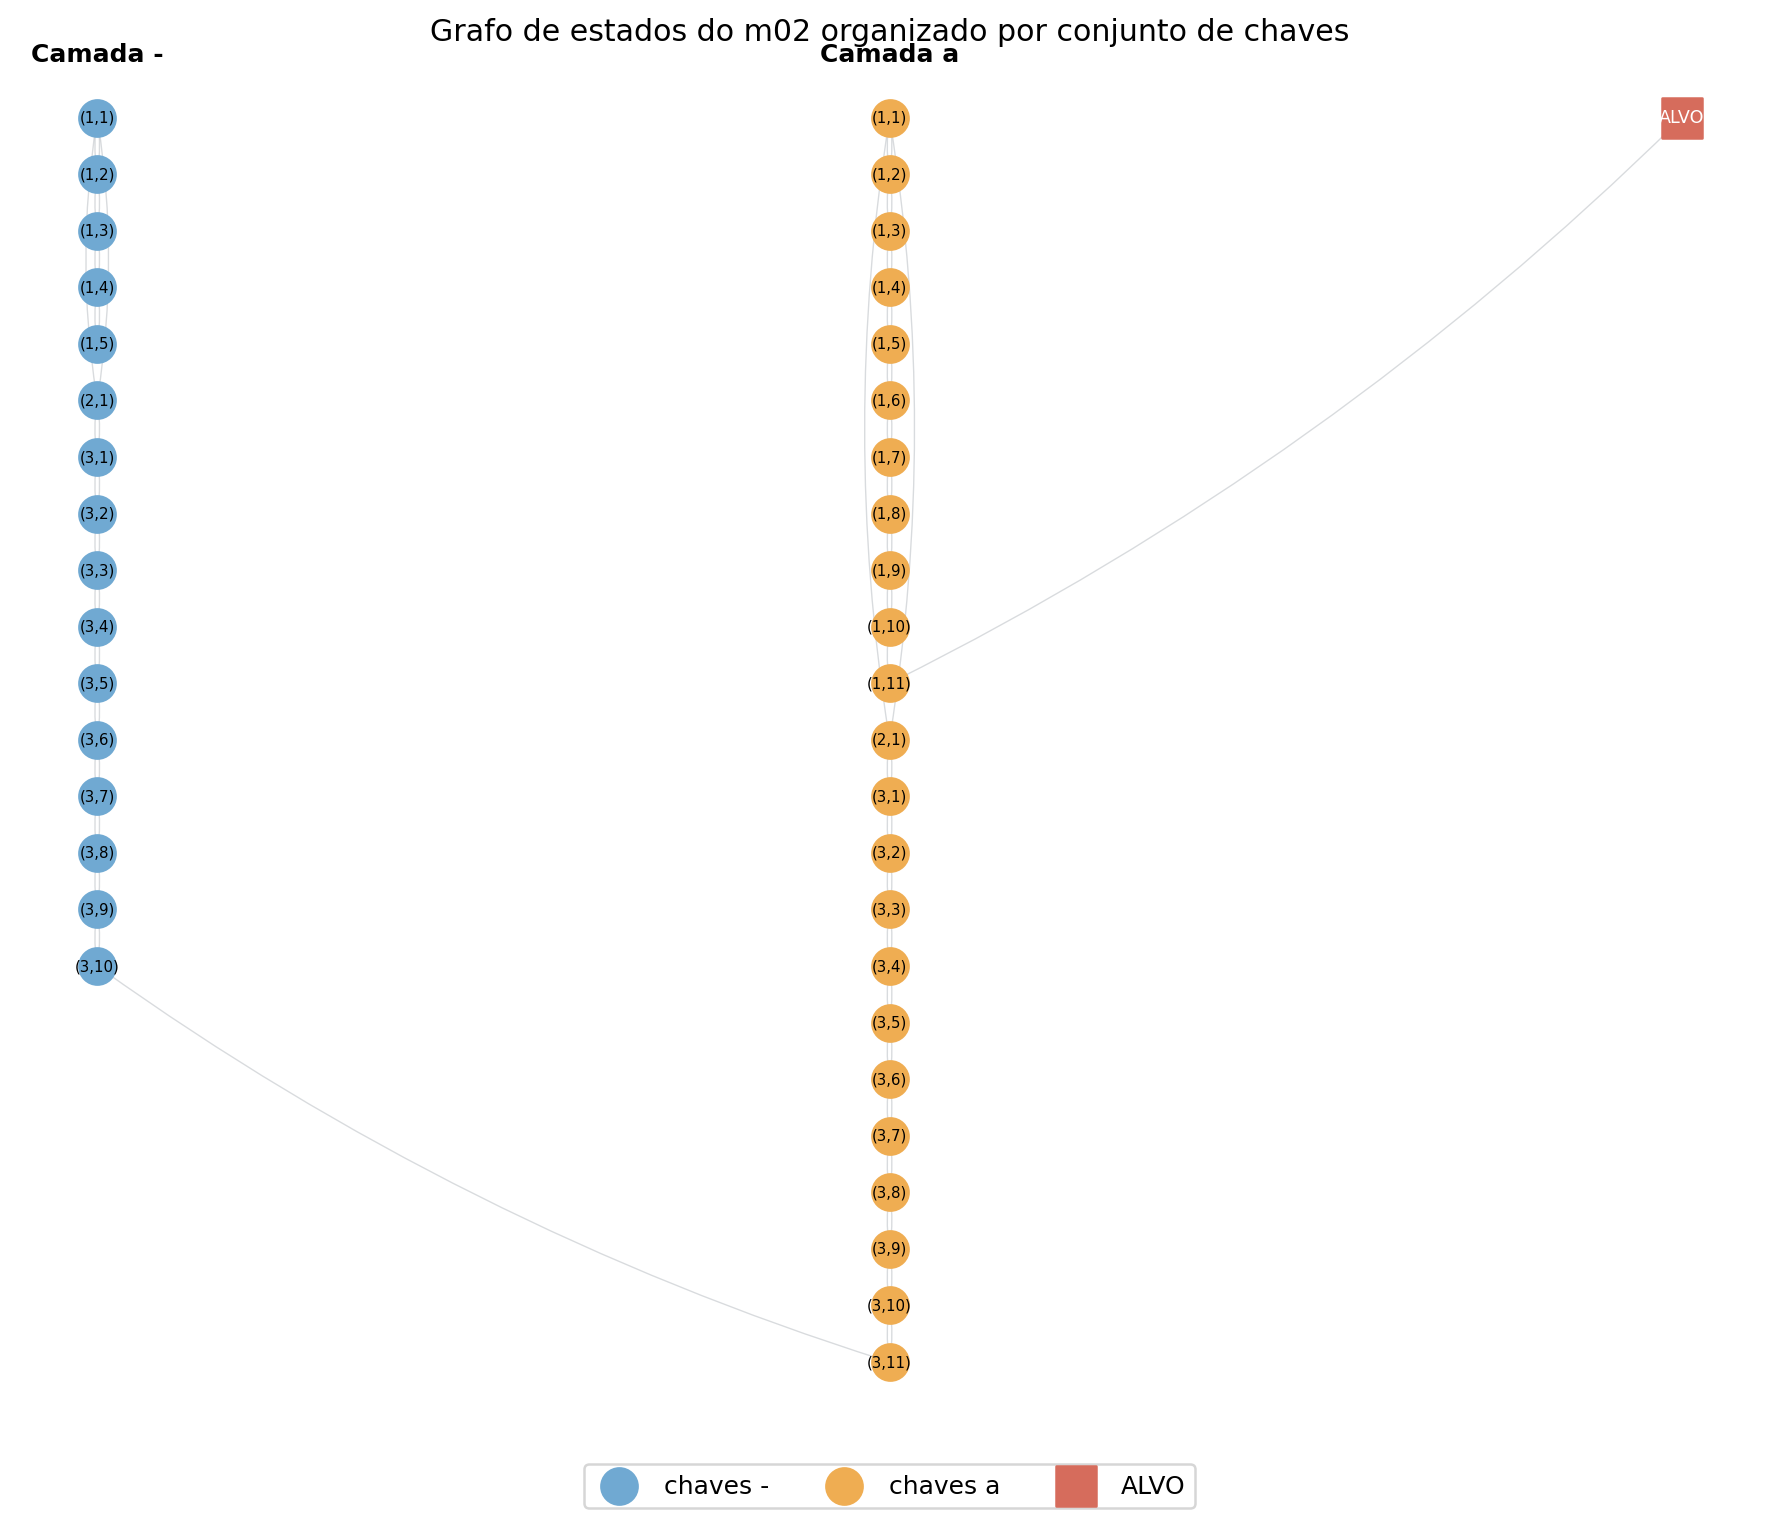
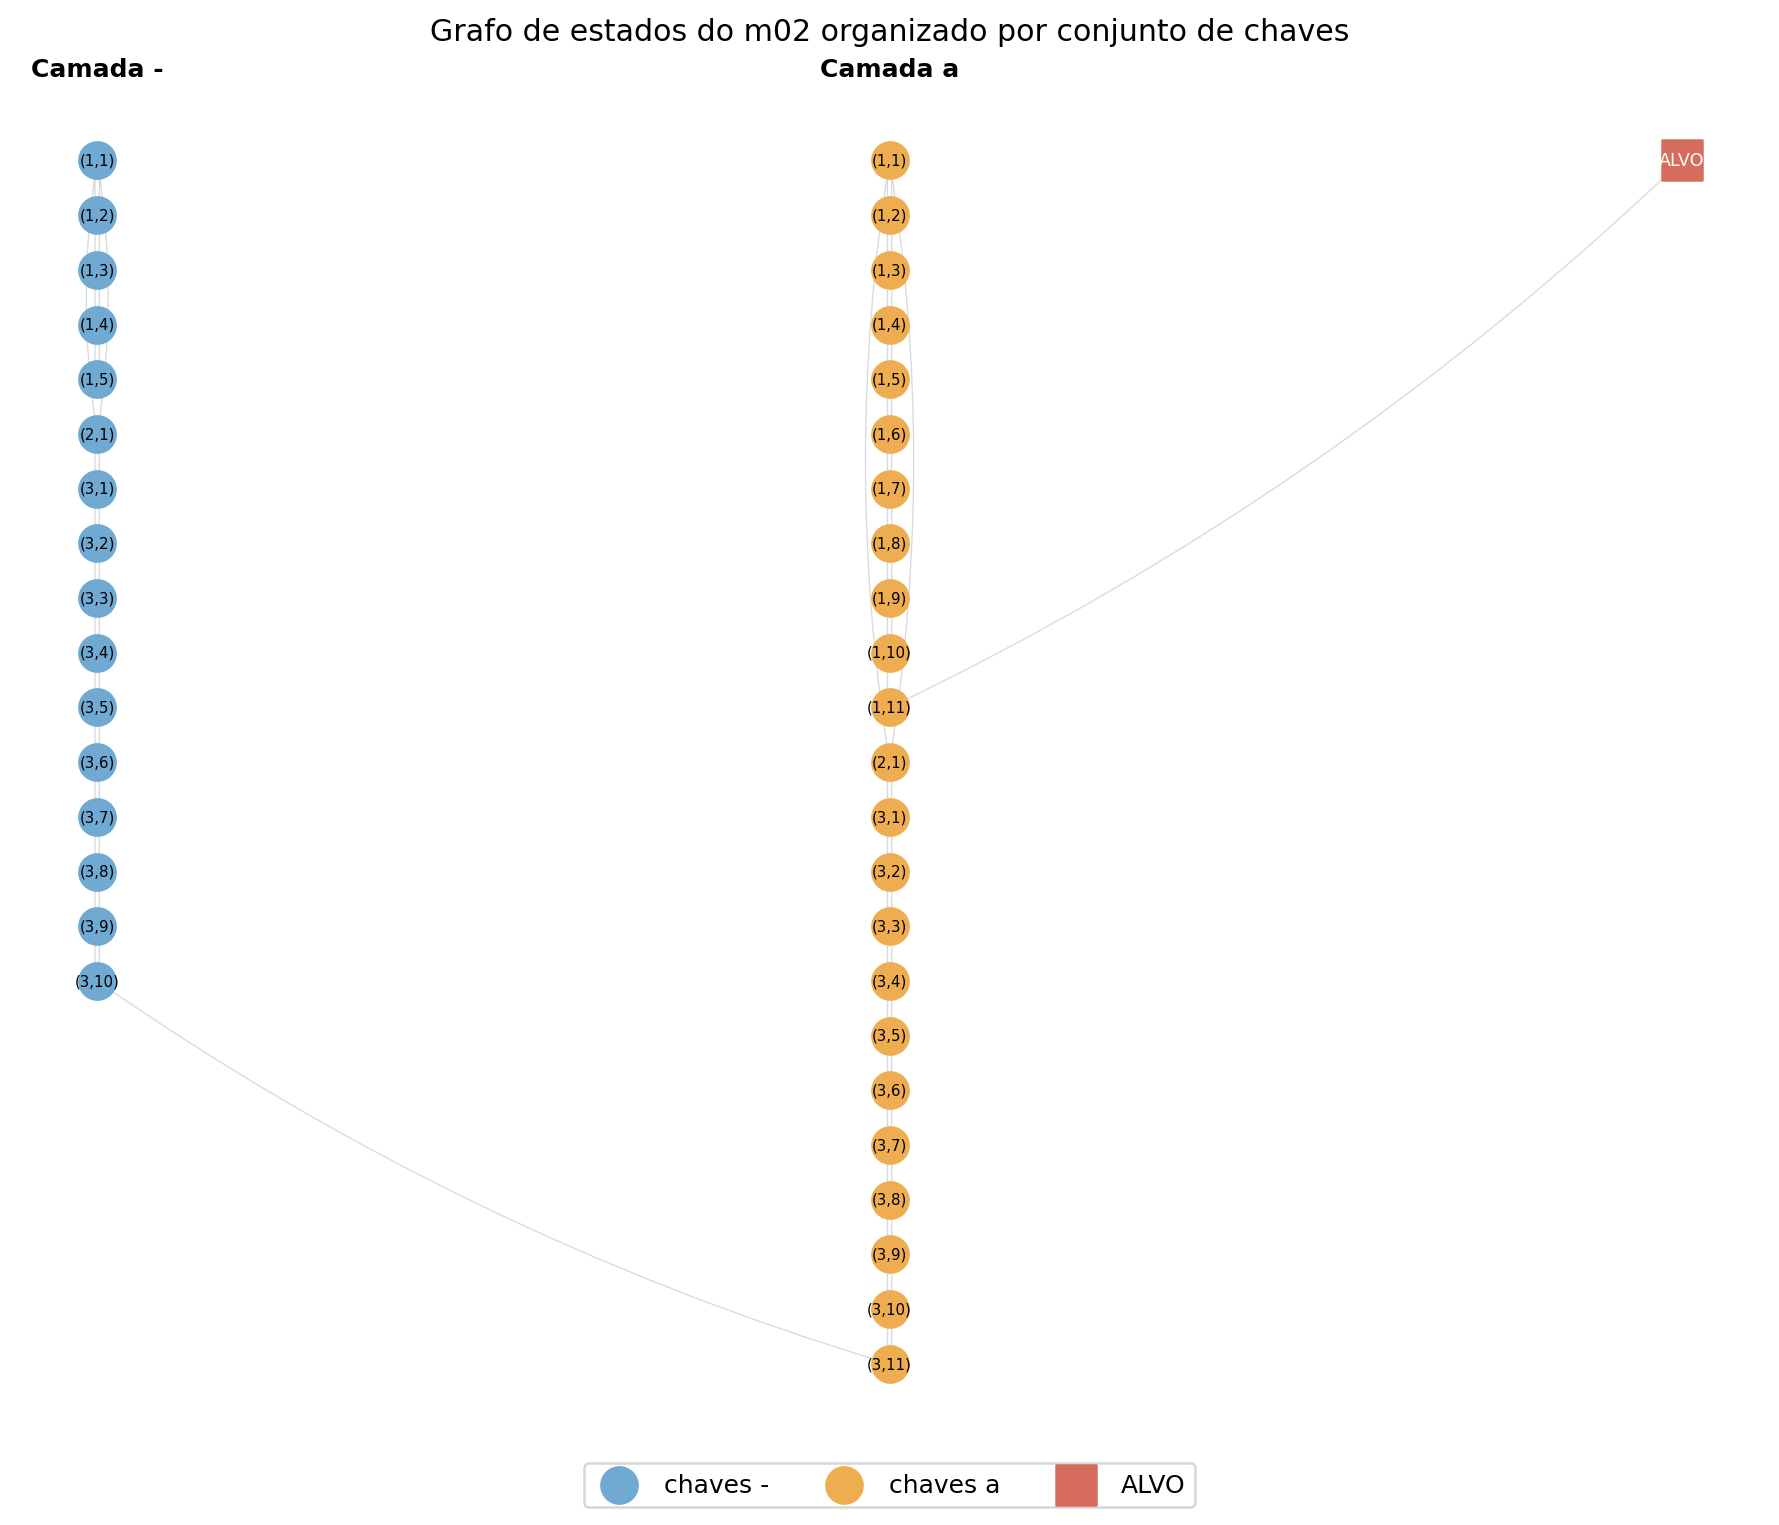
Ajuste e complementos parte 1

Changed region(s): [[0.4637, 0.0308, 0.5565, 0.8938], [0.0, 0.0308, 0.0927, 0.678], [0.9275, 0.0616, 0.9584, 0.1233]]

diff --git a/src/viz.py b/src/viz.py
@@ -131,19 +131,21 @@ def percurso_colorido(caminho_mapa, resultado, caminho_png):
             continue
         pos, keys, _ = label.split("|")
         linha, coluna = map(int, pos.strip("()").split(","))
-        camada = 0 if keys == "-" else len(keys)
+        camada = "" if keys == "-" else keys
         estados.append((linha, coluna, camada))
     figura, eixo = plt.subplots(figsize=(max(9, mapa.colunas * .28), max(5, mapa.linhas * .28)))
     eixo.set_facecolor("#252a2e")
     grade = [[0 if mapa.casa(r, c) == "#" else 1 for c in range(mapa.colunas)] for r in range(mapa.linhas)]
     eixo.imshow(grade, cmap=ListedColormap(["#30363b", "#f3f0e8"]), vmin=0, vmax=1)
-    cores = ["#2878b5", "#ed9b40", "#51a66b", "#a564bd"]
-    for camada in range(4):
+    camadas_percurso = list(dict.fromkeys(k for _, _, k in estados))
+    paleta = plt.get_cmap("tab20", max(1, len(camadas_percurso)))
+    for indice, camada in enumerate(camadas_percurso):
         pontos = [(c, r) for r, c, k in estados if k == camada]
         if pontos:
             xs, ys = zip(*pontos)
-            eixo.plot(xs, ys, color=cores[camada], linewidth=3, marker="o", markersize=4,
-                      label=f"camada com {camada} chave(s)", zorder=3)
+            nome_camada = camada or "-"
+            eixo.plot(xs, ys, color=paleta(indice), linewidth=3, marker="o", markersize=4,
+                      label=f"chaves {nome_camada}", zorder=3)
     for r, linha in enumerate(mapa.grade):
         for c, simbolo in enumerate(linha):
             if simbolo in "SGabcdABCD><^v+*":
@@ -155,7 +157,7 @@ def percurso_colorido(caminho_mapa, resultado, caminho_png):
     eixo.set_xticks(range(mapa.colunas))
     eixo.set_yticks(range(mapa.linhas))
     eixo.grid(alpha=.12)
-    eixo.legend(loc="upper center", bbox_to_anchor=(.5, -0.08), ncol=4)
+    eixo.legend(loc="upper center", bbox_to_anchor=(.5, -0.08), ncol=min(5, max(1, len(camadas_percurso))))
     figura.tight_layout()
     figura.savefig(caminho_png, dpi=170, bbox_inches="tight")
     plt.close(figura)
@@ -194,8 +196,8 @@ def grafo_estados_camadas(caminho_mapa, caminho_png):
     eixo.scatter(*posicao[ALVO], s=250, marker="s", color="#d66c5c", label="ALVO", zorder=2)
     eixo.text(*posicao[ALVO], ALVO, ha="center", va="center", fontsize=7, color="white", zorder=3)
     for x, nome in enumerate(camadas):
-        eixo.text(x * 3, 1.0, f"Camada {nome}", ha="center", va="bottom", fontweight="bold")
-    eixo.set_title("Grafo de estados do m02 organizado por conjunto de chaves")
+        eixo.text(x * 3, 1.6, f"Camada {nome}", ha="center", va="bottom", fontweight="bold")
+    eixo.set_title("Grafo de estados do m02 organizado por conjunto de chaves", pad=24)
     eixo.legend(loc="upper center", bbox_to_anchor=(.5, -0.02), ncol=max(1, len(camadas) + 1))
     eixo.axis("off")
     figura.tight_layout()

diff --git a/src/solve.py b/src/solve.py
@@ -108,14 +108,14 @@ def escrever_csv(linhas, colunas, caminho):
 
 
 # [IA] ChatGPT (Codex) – IMPLEMENTA AS FUNÇÕES DE EXPORTAÇÃO
-def exportar_armadilhas(pastas, pasta_saida):
+def exportar_armadilhas(pastas, pasta_saida, fonte_consumivel=False):
     pasta_saida = Path(pasta_saida)
     pasta_saida.mkdir(parents=True, exist_ok=True)
     resumos = []
     for pasta in pastas:
         for caminho in sorted(Path(pasta).glob("*.txt")):
             mapa = ler_mapa(caminho)
-            grafo = construir_g_est(mapa)
+            grafo = construir_g_est(mapa, fonte_consumivel)
             armadilhas = estados_armadilha_local(grafo, estado_inicial(mapa))
             vertices, arcos_sem_alvo = sem_alvo(grafo)
             _, graus_saida = graus(vertices, arcos_sem_alvo)
@@ -229,7 +229,7 @@ def resolver_todos(pastas, pasta_saida, fonte_consumivel=False):
         exportar_metricas_variante(pastas, pasta_saida, True)
     else:
         exportar_parte1(pastas, pasta_saida)
-    exportar_armadilhas(pastas, pasta_saida)
+    exportar_armadilhas(pastas, pasta_saida, fonte_consumivel)
     exportar_comparacao(pastas, pasta_saida, fonte_consumivel)
     escrever_json({"fonte_consumivel": fonte_consumivel,
                    "mapas": [Path(p).name for p in pastas]}, pasta_saida / "configuracao_parte1.json")

diff --git a/tests/test_solve.py b/tests/test_solve.py
@@ -11,3 +11,25 @@ def test_fonte_consumivel_remove_ciclo_negativo_do_m06():
     resultado = resolver("data/mapas/m06_fonte.txt", "BELLMAN_FORD", fonte_consumivel=True)
     assert resultado["status"] == "OK"
     assert resultado["ciclo"] == []
+
+
+# [IA] Claude - assegura que a exportação de armadilhas use o grafo da variante.
+def test_exportador_armadilhas_encaminha_regra_consumivel(tmp_path, monkeypatch):
+    import src.solve as solve_module
+
+    pasta_mapas = tmp_path / "mapas"
+    pasta_mapas.mkdir()
+    (pasta_mapas / "teste.txt").write_text("#######\n#S*G..#\n#######\n")
+    original = solve_module.construir_g_est
+    argumentos = []
+
+    def construtor(mapa, fonte_consumivel=False):
+        argumentos.append(fonte_consumivel)
+        return original(mapa, fonte_consumivel)
+
+    monkeypatch.setattr(solve_module, "construir_g_est", construtor)
+    resumos = solve_module.exportar_armadilhas([pasta_mapas], tmp_path / "out", True)
+
+    assert argumentos == [True]
+    assert resumos[0]["mapa"] == "teste"
+    assert (tmp_path / "out" / "armadilhas_teste.csv").is_file()

diff --git a/tests/test_io.py b/tests/test_io.py
@@ -41,6 +41,14 @@ def test_mapa_com_simbolo_desconhecido_gera_erro_claro(tmp_path):
         ler_mapa(caminho)
 
 
+# [IA] Claude - testa a rejeição de portas sem chave correspondente.
+def test_mapa_com_porta_sem_chave_gera_erro_claro(tmp_path):
+    caminho = tmp_path / "porta_sem_chave.txt"
+    caminho.write_text("#####\n#SAG#\n#####\n")
+    with pytest.raises(ValueError, match="porta A sem a chave a"):
+        ler_mapa(caminho)
+
+
 def test_porta_sem_chave_correspondente_gera_erro_claro(tmp_path):
     caminho = tmp_path / "porta.txt"
     caminho.write_text("######\n#S.AG#\n######\n", encoding="utf-8")

diff --git a/README.md b/README.md
@@ -113,4 +113,4 @@ Wiki-RfA: votos de usuários da Wikipédia nas eleições para administrador, de
 
 ## Uso de IA
 
-Seguimos as regras de IA do enunciado. Todo trecho de código feito com apoio de IA leva a marca `# [IA] <ferramenta> – <finalidade>`, cada uso fica registrado em [`docs/registro_ia.md`](docs/DECLARACAO_IA.md), e a declaração assinada por todos fica em `docs/DECLARACAO_IA.pdf`.
+Seguimos as regras de IA do enunciado. Todo trecho de código feito com apoio de IA leva a marca `# [IA] <ferramenta> – <finalidade>`, cada uso fica registrado em [`DECLARACAO_IA.md`], e a declaração assinada por todos fica em `docs/DECLARACAO_IA.pdf`.
